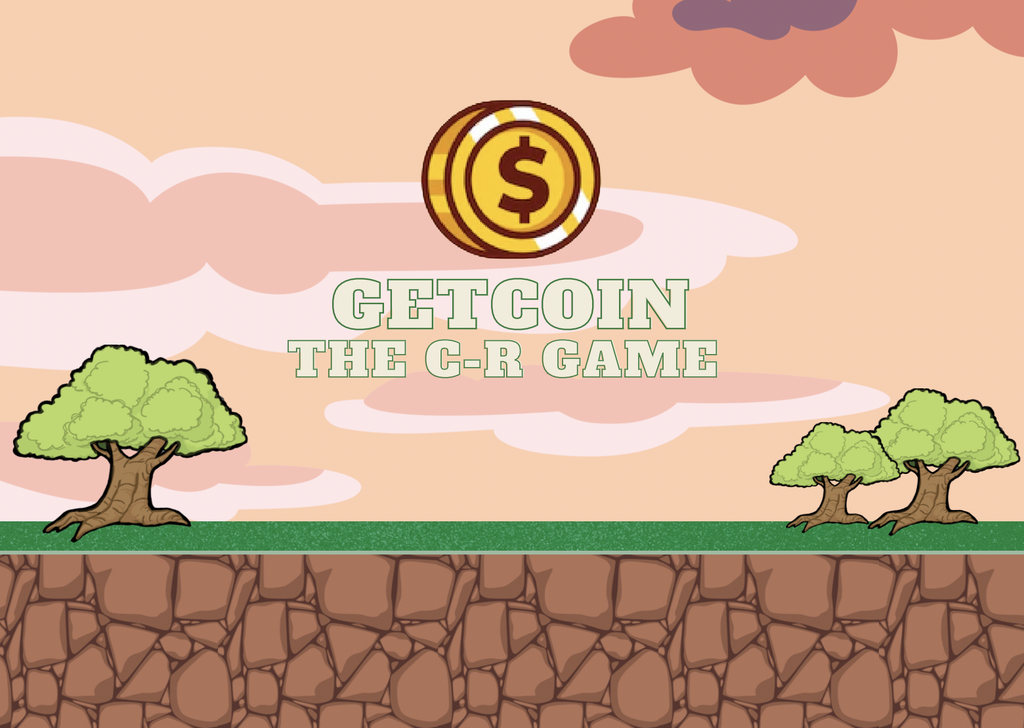
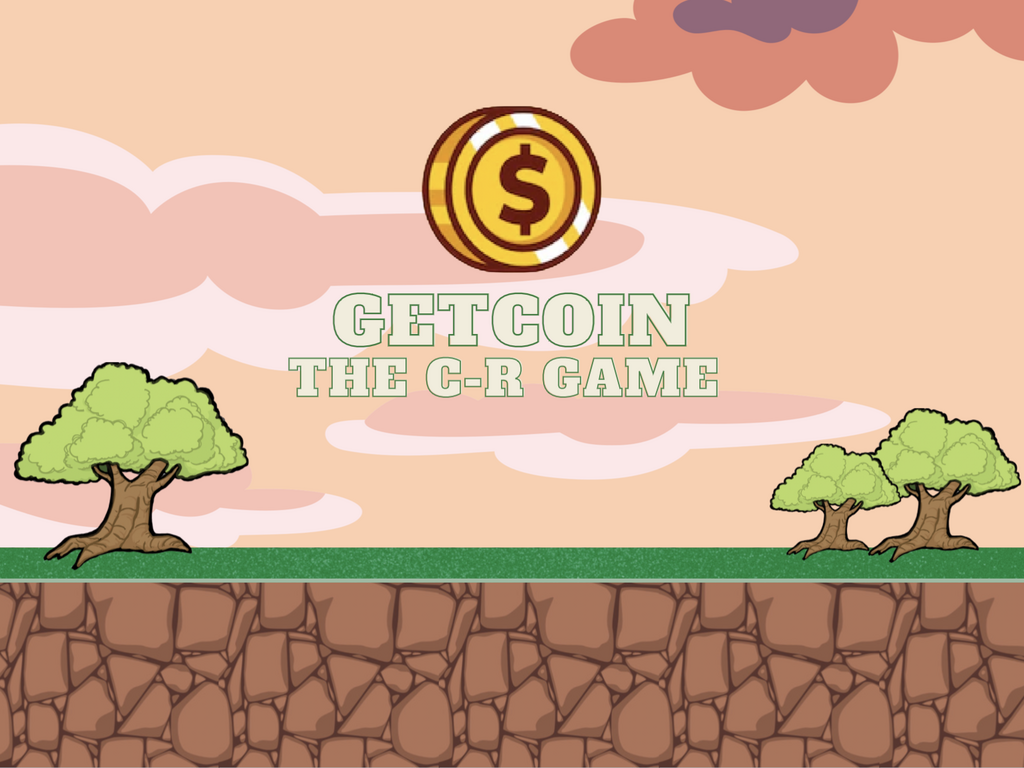
1024x768 not 1024x728

diff --git a/ProjectCS202/ProjectCS202/MainMenuState.cpp b/ProjectCS202/ProjectCS202/MainMenuState.cpp
@@ -2,7 +2,7 @@
 
 void MainMenuState::initWindow()
 {
-    this->vm = new sf::VideoMode(1024, 728);
+    this->vm = new sf::VideoMode(1024, 768);
     this->window = new sf::RenderWindow(*this->vm, "ProjectCS202", sf::Style::Titlebar | sf::Style::Close);
 
     this->window->setFramerateLimit(60);
@@ -31,11 +31,11 @@ void MainMenuState::initButtons() {
 
     this->Buttons[0].setPosition(26.0f, 26.0f);
     this->Buttons[1].setPosition(83.0f, 26.0f);
-    this->Buttons[2].setPosition(425.0f, 205.0f);
-    this->Buttons[3].setPosition(460.0f, 281.0f);
-    this->Buttons[4].setPosition(460.0f, 338.0f);
-    this->Buttons[5].setPosition(450.0f, 395.0f);
-    this->Buttons[6].setPosition(460.0f, 455.0f);
+    this->Buttons[2].setPosition(425.0f, 230.0f);
+    this->Buttons[3].setPosition(460.0f, 306.0f);
+    this->Buttons[4].setPosition(460.0f, 363.0f);
+    this->Buttons[5].setPosition(450.0f, 420.0f);
+    this->Buttons[6].setPosition(460.0f, 480.0f);
 }
 
 MainMenuState::MainMenuState() {

diff --git a/ProjectCS202/ProjectCS202/SplashState.cpp b/ProjectCS202/ProjectCS202/SplashState.cpp
@@ -10,7 +10,7 @@
 
 void SplashState::initWindow()
 {
-    this->vm = new sf::VideoMode(1024, 728);
+    this->vm = new sf::VideoMode(1024, 768);
     this->window = new sf::RenderWindow(*this->vm, "ProjectCS202", sf::Style::Titlebar | sf::Style::Close);
 
     this->window->setFramerateLimit(60);
@@ -32,7 +32,7 @@ void SplashState::initText()
     this->text.setFont(this->font);
     this->text.setCharacterSize(30);
     this->text.setString("Press Enter to continue...");
-    this->text.setPosition(330.0f,375.0f);
+    this->text.setPosition(330.0f,400.0f);
 }
 
 SplashState:: SplashState(){
